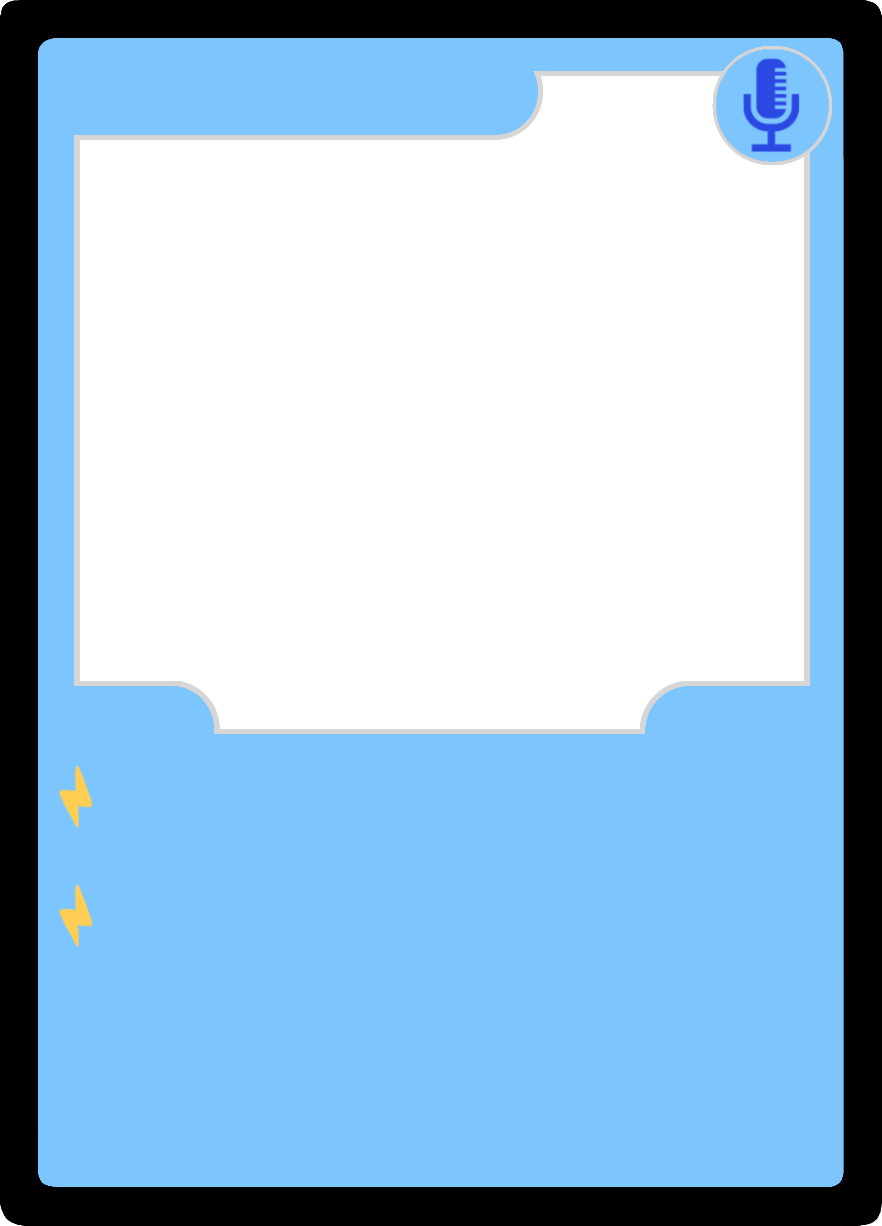
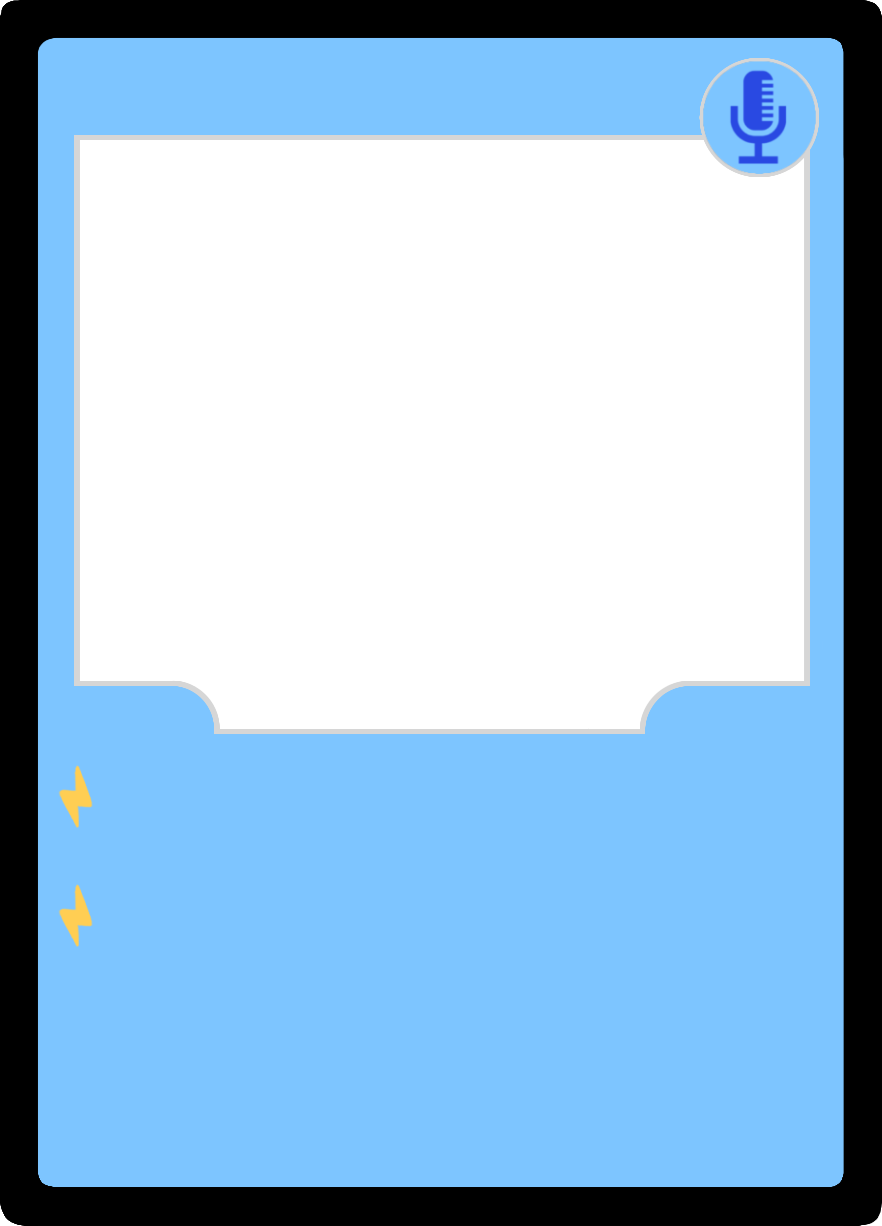
ajout fond terrain et familier et modif fond comm

Changed region(s): [[0.5816, 0.031, 0.949, 0.155]]

diff --git a/TCG_web/src/Composants/carte_membre.vue b/TCG_web/src/Composants/carte_membre.vue
@@ -3,7 +3,7 @@
     <img src="@/assets/imgs/carte/perso/fonds/fond_comm.png" alt="carte" />
     <img src="@/assets/imgs/carte/perso/Mzhdunosaure.png" alt="imgCarte" />
     <div id="haut_carte">
-      <p id="nom">Mhzdunosaure</p>
+      <p id="nom">Aurel, le retour</p>
       <div class="PV">
         <p id="PV">120</p>
         <p id="lblPV">PV</p>

diff --git a/TCG_web/src/assets/css/carteMembre.css b/TCG_web/src/assets/css/carteMembre.css
@@ -27,7 +27,7 @@ p {
   grid-column: 1/-1;
   grid-row: 1;
   width: calc(var(--w) * 0.84);
-  height: calc(var(--w) * 0.84);
+  max-height: calc(var(--w) * 0.84);
 
   padding: 8% 8% 0 8%;
 
